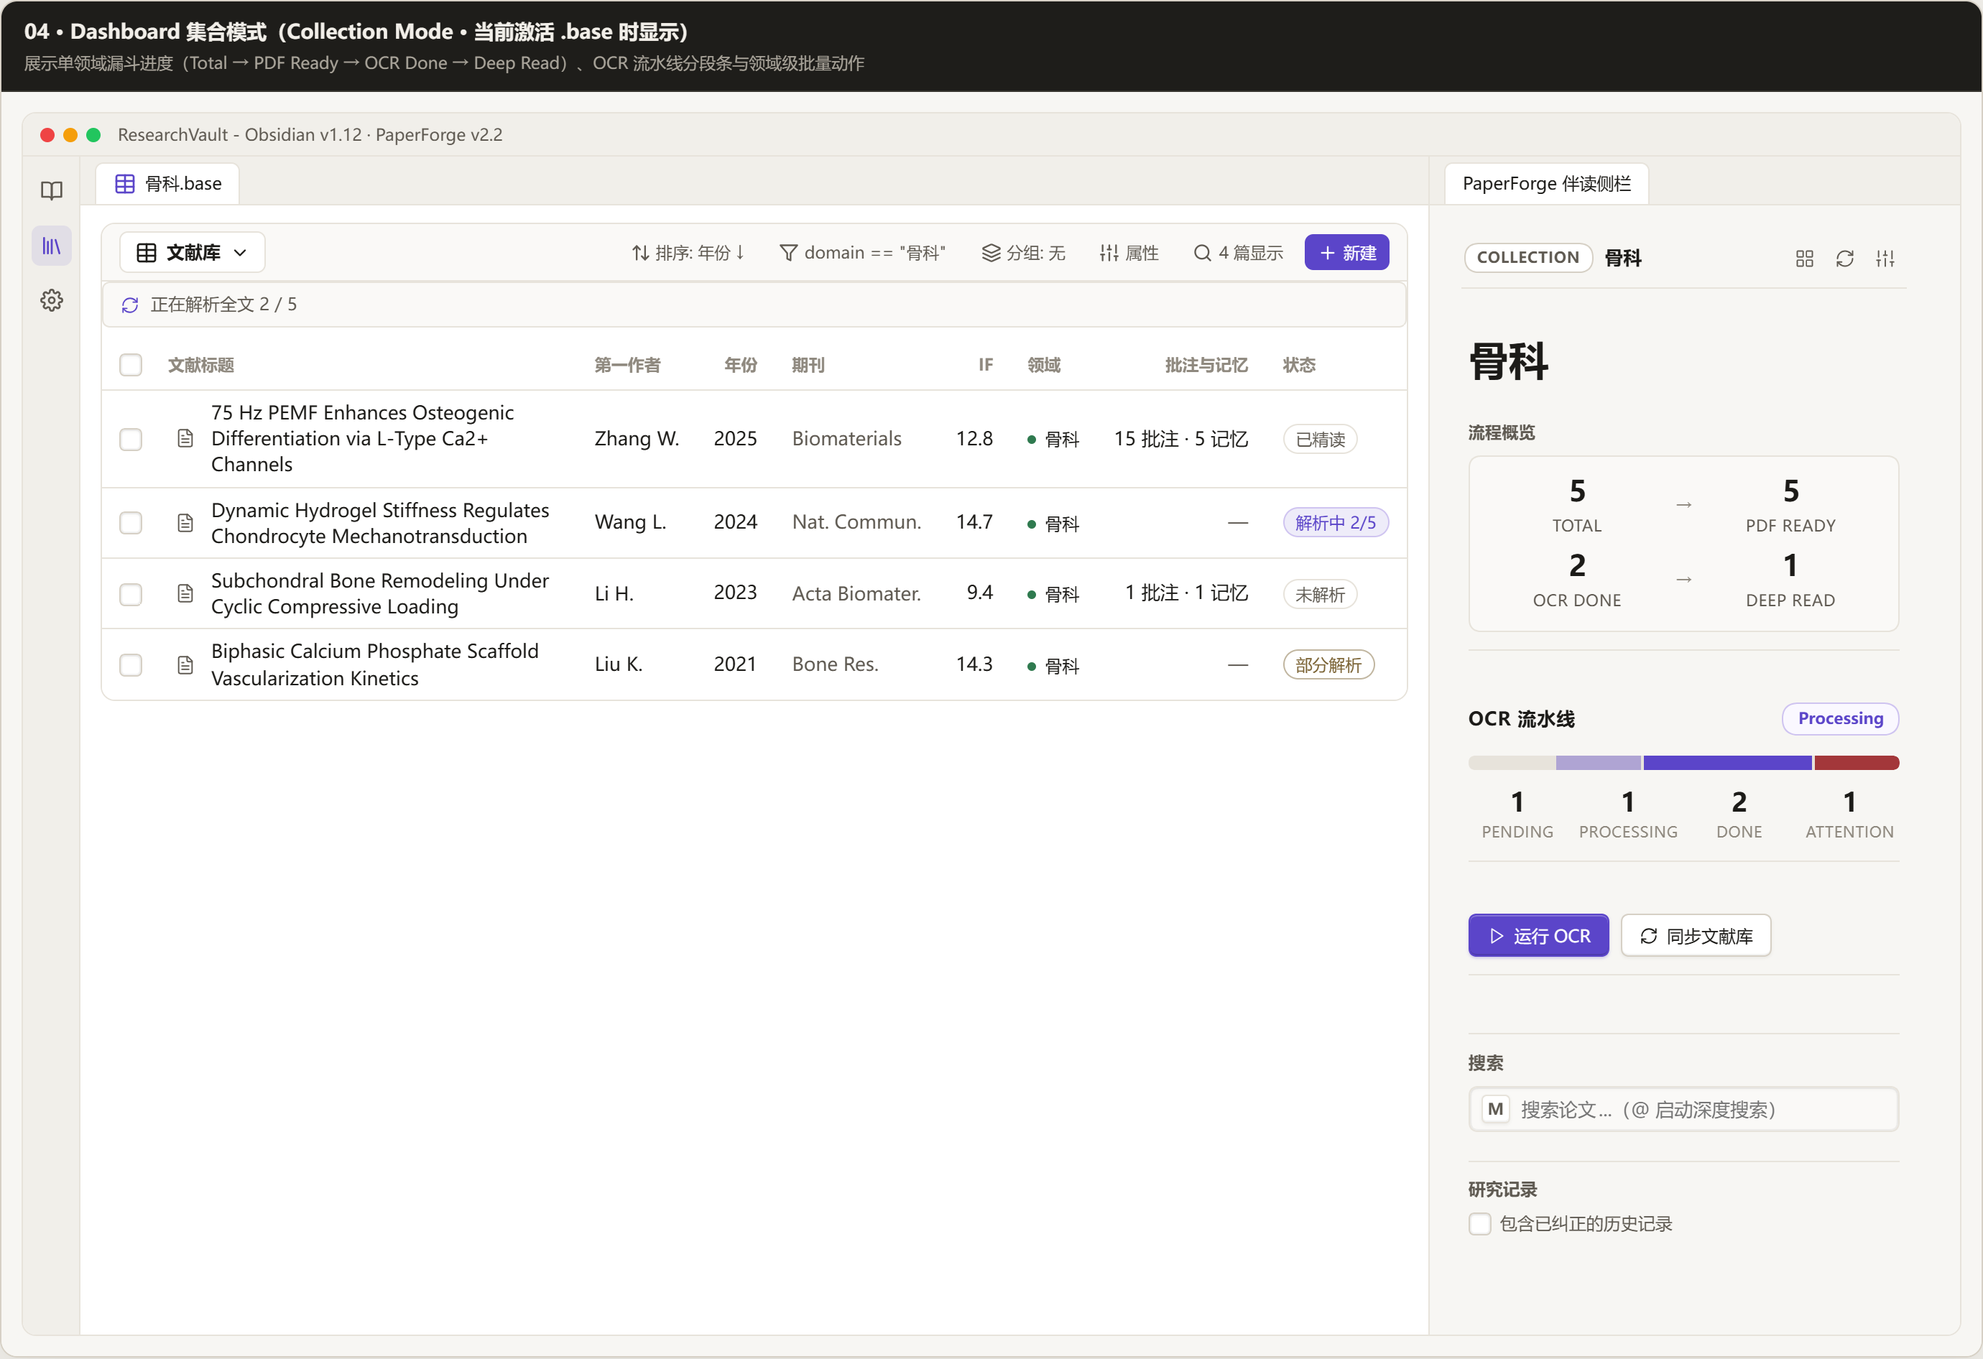
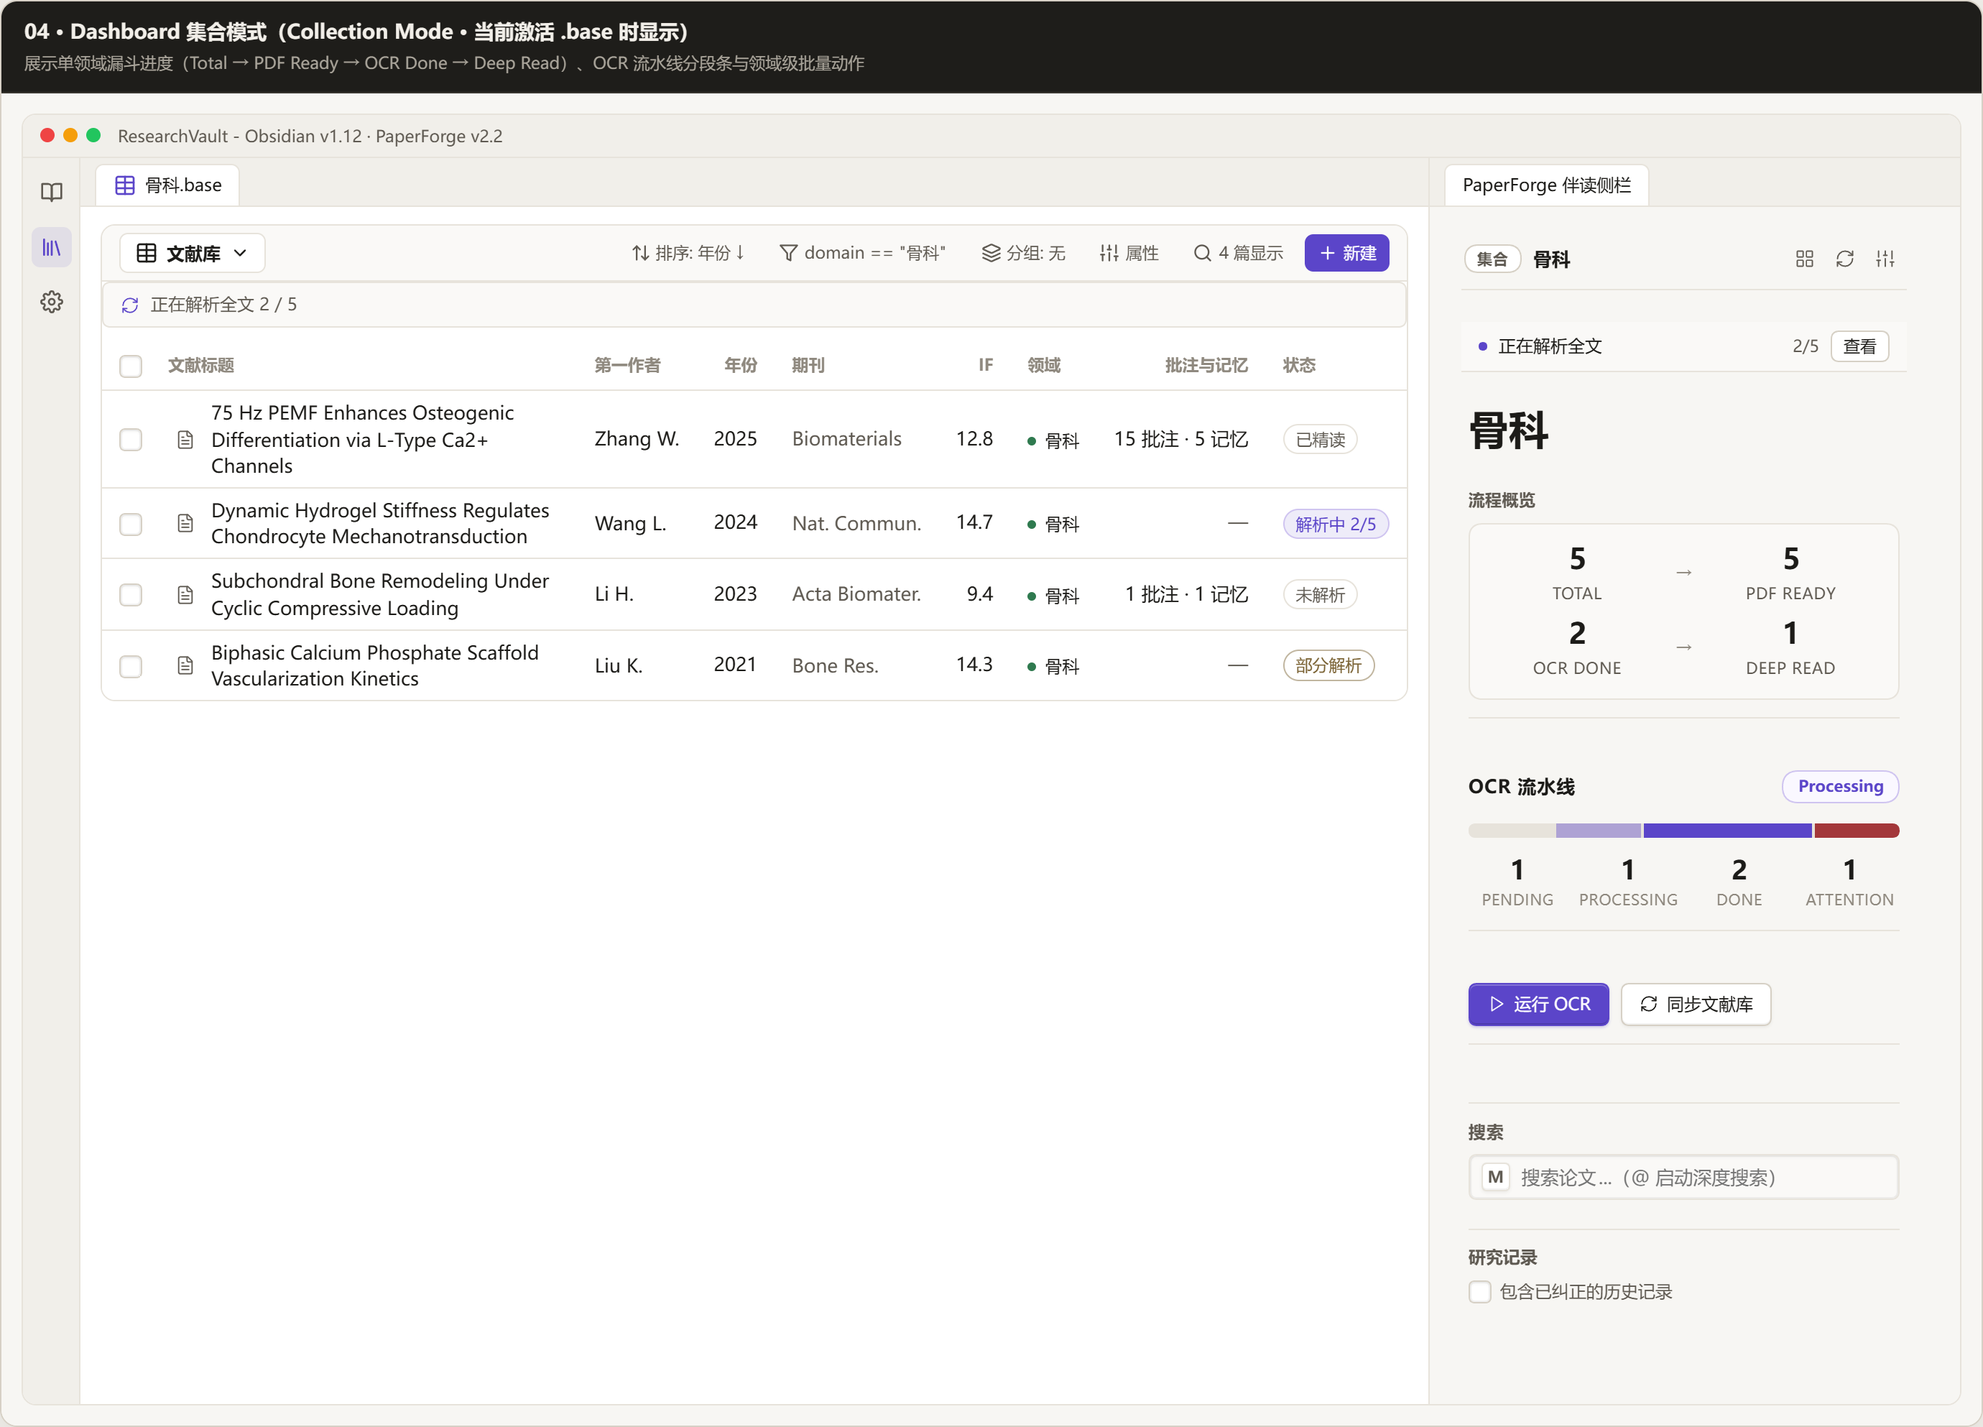
docs(ui): record ADR-016 design contract, Playwright DOM gates, and refreshed UI screenshots

diff --git a/scripts/dev/_obsidian_ui_showcase.ts b/scripts/dev/_obsidian_ui_showcase.ts
@@ -227,7 +227,7 @@ function makeMemoryCard(populated = true): PaperMemoryCardDto {
         revision: 3,
         updated_at: "2026-11-18T11:15:00Z",
         content:
-          "主线论证“物理场频率窗 → Ca2+ 内流 → ERK1/2-RUNX2 成骨分化” [Sec. 3.1-3.2]；在 15/75/150 Hz 梯度中锁定 75 Hz ± 5 µM 为有效窗口，并通过硝苯地平与 BAPTA-AM 双向阻断验证上游必要性。",
+          "主线论证“物理场频率窗 → Ca2+ 内流 → ERK1/2-RUNX2 成骨分化” [p.3, Sec. 3.1-3.2]；在 15/75/150 Hz 梯度中锁定 75 Hz ± 5 µM 为有效窗口，并通过硝苯地平与 BAPTA-AM 双向阻断验证上游必要性。",
       },
       {
         facet: "methods_params",
@@ -235,7 +235,7 @@ function makeMemoryCard(populated = true): PaperMemoryCardDto {
         revision: 2,
         updated_at: "2026-11-18T10:50:00Z",
         content:
-          "2% 低熔点琼脂糖 3D 支架接种原代细胞；PEMF 75 Hz, 1.8 mT, 2 h/day 连续 14 天；钙成像采样率 2 Hz（峰值出现在 22 min）；抑制剂 Nifedipine 10 µM（提前 30 min 预处理）[Sec. 2.4]。",
+          "2% 低熔点琼脂糖 3D 支架接种原代细胞；PEMF 75 Hz, 1.8 mT, 2 h/day 连续 14 天；钙成像采样率 2 Hz（峰值出现在 22 min）；抑制剂 Nifedipine 10 µM（提前 30 min 预处理）[p.2, Sec. 2.4]。",
       },
       {
         facet: "research_craft",
@@ -243,7 +243,7 @@ function makeMemoryCard(populated = true): PaperMemoryCardDto {
         revision: 1,
         updated_at: "2026-11-18T09:30:00Z",
         content:
-          "采用“场强等能量积分 + 变频率”对照替代固定占空比，排除热效应混杂；线性质混杂模型在附录纳入支架刚度随机截距（ICC=0.04）[Fig. 1, Sec. 4]。",
+          "采用“场强等能量积分 + 变频率”对照替代固定占空比，排除热效应混杂；线性质混杂模型在附录纳入支架刚度随机截距（ICC=0.04）[p.5, Fig. 1]。",
       },
       {
         facet: "critique_limits",
@@ -866,6 +866,18 @@ function makeFakePlugin(
     getClient: () => fakeClient as unknown as ReturnType<never>,
     getBaseSnapshotCache: () => snapshot,
     refreshBaseSnapshot: async () => snapshot,
+    getActiveBackgroundTasks: () =>
+      ocrRunning
+        ? [
+            {
+              kind: "ocr" as const,
+              label: "正在解析全文",
+              current: 2,
+              total: 5,
+              key: "KEY_PROC",
+            },
+          ]
+        : [],
     isOcrRunningForKey: (key: string) => ocrRunning && key === "KEY_PROC",
     openPaperPdf: async () => {},
     requestOcrRun: async () => {},
@@ -1281,6 +1293,19 @@ export async function renderAllScenes(): Promise<void> {
       v._renderModeHeader("global");
       (v as unknown as { _renderBackendBanner: () => void })._renderBackendBanner();
       v._renderGlobalMode();
+      (
+        v as unknown as {
+          _setRecoveryError: (
+            title: string,
+            cause: string,
+            actions: Array<{ label: string; primary?: boolean; run: () => void }>
+          ) => void;
+        }
+      )._setRecoveryError(
+        "未检测到文献库同步源",
+        "Better BibTeX 导出未就绪，请检查目录配置后重试。",
+        [{ label: "重试同步", run: () => {} }]
+      );
     });
     void vErr;
   }
@@ -1566,12 +1591,15 @@ export async function renderAllScenes(): Promise<void> {
       cls: "pf-doc-panel-label",
       text: "A. AsterLab Dark · 原 PDF 变更告警 + 缩略图导航 + AI 导读关闭",
     });
-    const leftMount = leftCard.createDiv();
+    const leftMount = leftCard.createDiv({ cls: "pf-pdf-view is-narrow" });
+    leftMount.style.width = "620px";
+    leftMount.style.maxWidth = "100%";
     const pdfLeft = new PaperForgePdfView(new WorkspaceLeaf(), pluginLeft as never);
     (pdfLeft as unknown as { app: App }).app = appLeft;
     (pdfLeft as unknown as { contentEl: HTMLElement }).contentEl = leftMount;
     (pdfLeft as unknown as { _scale: number })._scale = 0.72;
     await pdfLeft.setState({ paperKey: "KEY_DONE", page: 1 }, { history: false });
+    leftMount.classList.add("is-narrow");
     const aiToggleBtn = leftMount.querySelector(
       '[data-pf-testid="pdf-toggle-ai-layer"]'
     ) as HTMLButtonElement | null;

diff --git a/scripts/dev/render_obsidian_ui_docs.py b/scripts/dev/render_obsidian_ui_docs.py
@@ -539,7 +539,33 @@ def main() -> int:
                 if showcase_err:
                     raise RuntimeError(f"Showcase JS error:\n{showcase_err}")
                 if errors:
-                    raise RuntimeError(f"Uncaught page errors:\n" + "\n".join(errors))
+                    raise RuntimeError("Uncaught page errors:\n" + "\n".join(errors))
+
+                dom_audit = page.evaluate(
+                    """() => {
+                      const text = document.body.innerText || "";
+                      const hasLegacyPrefix = text.includes("[!!]") || text.includes("[OK]");
+                      const emptyStrips = Array.from(
+                        document.querySelectorAll(".pf-global-activity-strip")
+                      ).filter((el) => el.children.length === 0);
+                      const zeroIdleOk = emptyStrips.every(
+                        (el) => el.getBoundingClientRect().height === 0
+                      );
+                      const narrowPdf = Array.from(
+                        document.querySelectorAll(".pf-pdf-view.is-narrow .pf-pdf-toolbar")
+                      );
+                      const narrowToolbarOk = narrowPdf.every(
+                        (el) => el.scrollWidth <= el.clientWidth + 2
+                      );
+                      return { hasLegacyPrefix, zeroIdleOk, narrowToolbarOk };
+                    }"""
+                )
+                if dom_audit.get("hasLegacyPrefix"):
+                    raise RuntimeError("Rendered UI leaked [!!] or [OK] log prefixes")
+                if not dom_audit.get("zeroIdleOk", False):
+                    raise RuntimeError("Empty .pf-global-activity-strip did not collapse to 0px")
+                if not dom_audit.get("narrowToolbarOk", False):
+                    raise RuntimeError("Narrow .pf-pdf-view.is-narrow toolbar overflowed horizontally")
 
                 for slug in SCENES:
                     loc = page.locator(f"#scene-{slug}")

diff --git a/paperforge/plugin/DESIGN.md b/paperforge/plugin/DESIGN.md
@@ -109,3 +109,39 @@ Every interactive control follows five concrete tactile & typographic rules impl
 6. **Concentric & Continuous Corners (`#004`)**: Outer containers (`10px`–`12px`) minus compact padding (`4px`) drive inner control radii (`6px`–`8px`), with `corner-shape: superellipse(1.25)` where supported.
 7. **Recessed Input & Segmented Tracks (`#015`)**: Unified search bars and segmented controls sit inside `--pf-well-inset` tracks with an elevated `--pf-surface` capsule casting `--pf-btn-lift`.
 8. **CJK / Latin Typography Switches (`#007`)**: Global `text-autospace: normal`, `text-spacing-trim: trim-start`, `text-wrap: balance` on headings, `text-wrap: pretty` on prose, `white-space: nowrap` on buttons/tabs, and `min-width: 0` on all flex truncating headers.
+
+---
+
+## 7. Unified Domain & Mode Vocabulary (AsterLab `ux-contract.md` §3 Alignment)
+
+Every surface (`PaperForgeBasesView`, `PaperForgeStatusView`, `OcrWorkspaceView`, `PaperForgeSettingTab`) shares one canonical vocabulary:
+
+| Context                 | Canonical Chinese Label                                                                   | Canonical English Label                                                                           | Retired Ambiguous / Machine Tokens                                      |
+| ----------------------- | ----------------------------------------------------------------------------------------- | ------------------------------------------------------------------------------------------------- | ----------------------------------------------------------------------- |
+| Companion Mode          | `全局` / `单篇` / `集合` / `版本历史`                                                     | `Workspace` / `Paper` / `Collection` / `Versions`                                                 | `GLOBAL`, `PAPER`, `COLLECTION` uppercase chrome                        |
+| Paper Parse State       | `已精读` / `已解析` / `解析中` / `排队中` / `部分解析` / `解析异常` / `未解析` / `无附件` | `Deep Read` / `Parsed` / `Parsing` / `Queued` / `Partial` / `Parse Error` / `Unparsed` / `No PDF` | `已处理` vs `已解析`, `未完成`, `待处理`, `KEY_DONE`, `OCR Needed`      |
+| Toast & Banner Prefixes | Direct calm academic phrasing                                                             | Direct calm academic phrasing                                                                     | `[!!]`, `[OK]`, `[i]` log prefixes                                      |
+| Technical Disclosure    | `渲染核查`, `PDF 状态`, `解析状态`, `附件状态`, `笔记路径`                                | `Render Audit`, `PDF Status`, `OCR Status`, `Asset Status`, `Note Path`                           | Raw `Render Quality`, `PDF Health`, `done_incomplete` on surface chrome |
+
+---
+
+## 8. Recoverable Inline Errors (`Cause + Recovery Action`)
+
+Never fail with a fleeting `Notice` alone when user recovery is possible (`AsterLab D8 / UX-02`):
+
+1. Missing PDF, missing fulltext, missing `.base`, failed sync, or rejected state updates persist an inline recoverable banner (`.pf-recovery-banner`) showing the localized error state, human-readable cause, and direct recovery action(s) (`重试` / `重新同步` / `打开设置`) until cleared by dismissal or successful state transition.
+2. Transient `Notice` alerts remain supplemental for quick copy confirmations (`已复制标题`) or background start cues, strictly free of `[!!]` / `[OK]` / `[i]` ASCII badges.
+
+---
+
+## 9. Zero-Idle Activity Strip & Evidence DeepLinks (`UI-INT-10` / `CLOSE-07`)
+
+1. **Zero-Idle Global Activity Strip (`.pf-global-activity-strip`)**: When no long-running operation (`Sync`, `OCR`, `Embedding`) is active, the strip renders `0px` (not even empty padding or placeholder chrome). While active, it surfaces real-time progress and provides a DeepLink action jumping directly to the active paper or OCR Workspace.
+2. **Memory ↔ PDF DeepLinks**: Evidence page/figure markers inside Living Paper Memory (`[p.N]`, `p.N`, `第 N 页`, `Fig. N`) render as interactive inline DeepLink chips (`.pf-memory-deeplink`) that focus `PaperForgePdfView` and scroll directly to page `N`.
+
+---
+
+## 10. Narrow Pane & Dark Theme Gates
+
+1. **Responsive Split-Pane PDF Toolbar**: When `PaperForgePdfView` sits inside a narrow split pane (`<= 680px`), secondary chrome compacts gracefully so page navigation, zoom, split highlight, and search remain reachable without horizontal clipping.
+2. **Continuous Three-Axis Verification**: `scripts/dev/render_obsidian_ui_docs.py` verifies wide desktop Light, **AsterLab Dark**, **320px narrow Companion sidebar**, and **640px narrow split PDF** layouts with zero uncaught console/page errors.

diff --git a/docs/ARCHITECTURE.md b/docs/ARCHITECTURE.md
@@ -763,6 +763,19 @@ Any final role in `VERIFY_REQUIRED` must have `role_verification_status: ACCEPT`
 
 ---
 
+### ADR-016: AsterLab UX Contract Alignment (Single-Authority Tokens, Unified Vocabulary, Recoverable Inline Errors, Activity Strip, & Responsive Gates)
+
+**Context**: Comparing PaperForge's `v4` Obsidian UI against AsterLab's post-2026-11-12 UX Contract (`ux-contract.md`, `design-system.md`, `UX-02`, `UX-07`, `UI-INT-10`, `CLOSE-07`) exposed structural gaps beyond palette alignment: 37 toast-only `[!!]` notices without in-surface recovery paths, mixed mode/status terminology across Base/Companion/OCR Workspace/Settings (`GLOBAL`, `PAPER`, `OCR Needed`, `KEY_FAILED`), multiple primary-styled CTAs competing in narrow `300px` sidebars, fragmented background-task visibility, disconnected Living Memory text vs PDF page/figure anchors, and `styles.css` literal drift (`8px` radii, non-4px gaps) lacking narrow-pane and dark-mode screenshot regression gates.
+
+**Decisions**:
+1. **Single-Authority Token & Geometry Discipline**: Normalize new/remediated CSS rules in `paperforge/plugin/styles.css` onto `--pf-radius-control` (`6px`), `--pf-radius-panel` (`10px`), `--pf-radius-dialog` (`12px`), `4px` spacing multiples, and zero raw `[!!]`/`[OK]` log prefixes on user surfaces. Keep zero literal colors outside token definitions.
+2. **Unified Domain & Mode Vocabulary**: Localize and align Companion mode badges (`工作区` / `单篇` / `集合` / `版本`), paper recommendation labels (`需要同步` / `需要解析` / `建议精读` / `已就绪`), OCR Workspace states (`已解析` / `排队中` / `解析中` / `部分解析` / `解析异常` / `未解析` / `无附件`), and secondary technical disclosure headings (`渲染核查` instead of raw `Render Quality`, localized `PDF 状态` / `解析状态` / `附件状态` / `笔记路径`) while preserving stable DOM `data-pf-testid` / `data-pf-mode` hooks for automation.
+3. **Recoverable Inline Errors (`Cause + Next Action`)**: Replace toast-only `[!!]` error dead-ends in `PaperForgeStatusView` and `OcrWorkspaceView` with an inline persistent recovery banner (`_renderInlineRecoveryBanner`) carrying localized cause copy plus one-click recovery buttons (`重试` / `同步文献库` / `打开设置`), retaining transient `Notice` only for non-blocking confirmations or supplementary cues without `[!!]`/`[OK]` machine prefixes.
+4. **Task-First Single Primary Budget & Zero-Idle Global Activity Strip**: Enforce at most one `.primary` CTA per viewport region in Companion Global and Paper modes (`打开文献库` primary in Global; `打开 PDF` or contextually recommended `解析全文` primary in Paper). Expose `getActiveBackgroundTasks()` from `PaperForgePlugin` to drive a shared `.pf-global-activity-strip` (0px height when idle; live progress + `查看/跳转` DeepLink when OCR / Sync / Embedding runs).
+5. **Memory ↔ PDF DeepLink & Responsive Split-Pane Toolbar**: Parse inline page/figure anchors (`[p.N]`, `p.N`, `第 N 页`, `Sec./Fig.`) in Companion Living Paper Memory cards into clickable DeepLinks invoking `openPaperPdf(key, { page })`; make `PaperForgePdfView` toolbar overflow cleanly with compact split-pane breakpoints (`<= 680px`); extend `scripts/dev/render_obsidian_ui_docs.py` + `_obsidian_ui_showcase.ts` to test AsterLab Dark mode, narrow `320px` sidebar width, and narrow `640px` split PDF width alongside CSS token regression tests.
+
+---
+
 ## Glossary
 
 - **Canonical Fact** — a fact whose single authority is a canonical storage location (paperforge.json, formal-library.json, OCR meta/artifacts, paperforge.db, build_state). Never re-derived or duplicated as a competing truth.

diff --git a/docs/OBSIDIAN-UI-AND-BASE-DESIGN.md b/docs/OBSIDIAN-UI-AND-BASE-DESIGN.md
@@ -140,3 +140,15 @@ python scripts/dev/render_obsidian_ui_docs.py
 ![11 · OCR 与智能检索模块配置详情](images/ui-states/v4-11-settings-ocr-and-memory-details.png)
 
 ![12 · 二级 OCR 批量维护工作台与三大安全弹窗](images/ui-states/v4-12-ocr-workspace-and-modals.png)
+
+---
+
+## 7. AsterLab UX 契约深度对齐（ADR-016）
+
+围绕任务收敛、可恢复反馈与窄分栏可读性，UI 在现有暖灰体系之上补充了五项可门禁验收的交互约束：
+
+1. **三档圆角与零日志前缀门禁**：全量 `styles.css` 收口至 `--pf-radius-control`（`6px`）/ `--pf-radius-panel`（`10px`）/ `--pf-radius-dialog`（`12px`）三档（零 `5/7/8/9px` 散落字面量），所有界面视图移除 `[!!]` / `[OK]` / `[i]` 工程师前缀。
+2. **全端统一词表**：Companion 模式切换徽章统一使用本地化语义词（`全局` / `单篇` / `集合` / `版本历史`）；Base 表格与 `OcrWorkspaceView` 共用同一套状态词表（`已精读` / `已解析` / `解析中` / `排队中` / `部分解析` / `解析异常` / `未解析` / `无附件`）；高技术字段折叠区统一本地化为 `渲染核查`、`PDF 状态`、`解析状态`、`附件状态`、`笔记路径`。
+3. **行内可恢复报错横幅（`.pf-recovery-banner`）**：遇到库未同步、`.base` 目录缺失、PDF/全文定位失败、同步或版本读取异常时，不再只弹一闪而过的 Toast，而是在 Companion 顶部保留带 **原因说明 + 直达修复/重试按钮** 的持久化恢复条。
+4. **单主 CTA 约束 + 零占位后台活动条（`.pf-global-activity-strip`）**：单一视口只保留一个高亮主按钮；通过 `PaperForgePlugin.getActiveBackgroundTasks()` 聚合后台同步/OCR/向量任务，空闲态 `0px` 不占位，运行态实时显示进度并支持一键 DeepLink 跳转对应文献或 OCR 工作台。
+5. **研究认知记忆 ↔ PDF 原位 DeepLink 与窄分栏响应**：研究记忆正文中的页码引用（如 `[p.3, Sec. 3.1]`、`第 5 页`）自动渲染为可点击 `.pf-memory-deeplink` 芯片，直接定位并滚动内置 `PaperForgePdfView`；PDF 视图在 `<= 680px` 分栏宽度下自动切换 `.is-narrow` 折叠换行，保证工具按钮与全文搜索框不被裁切。
